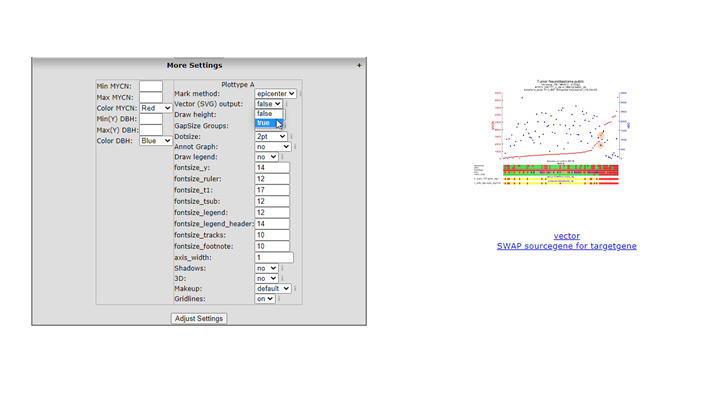
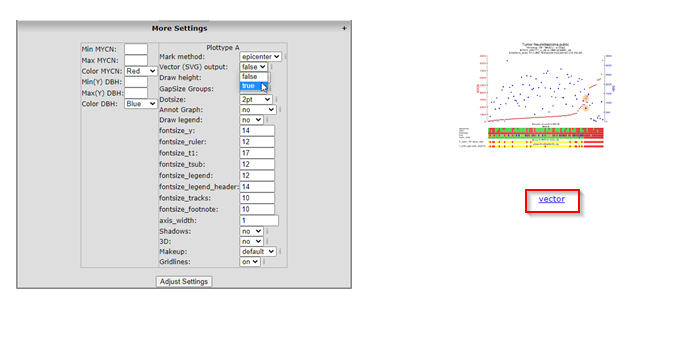
One Gene View, images adapted

Changed region(s): [[0.0, 0.0581, 0.5212, 0.843], [0.6438, 0.1163, 0.9197, 0.4651], [0.6745, 0.5523, 0.8891, 0.6395]]

diff --git a/docs/One_Gene_View.md b/docs/One_Gene_View.md
@@ -126,6 +126,8 @@ Step 3: Plotting Gene expression
    * Many layout settings can be adjusted in the *More Settings* option, such as font size, colors and marker type. In order to view the extra options, click on the small + sign on the right side of the 'More Settings' tab. 
    * To highlight specific samples in the graph, you can simply double-click in the graph on the marker-points of the samples that you want to highlight, or you can enter the R2 sample ID’s in the field 'Samples to mark' from the ‘Adjustable settings’ panel. If you enter multiple ID's, separate them with a comma. 
    * Several marking options can be selected with the 'Mark method' that can be found in the 'More settings' tab (e.g: ‘epicenter’ and ‘arrow’, Figure 4 red arrow). Changes in marker type and marker color can be achieved as well with a specific syntax applied in the before mentioned 'Samples to mark'text field. Keep reading to find examples of how to use the syntax yourself.  
+   
+   *Always click on 'Adjust Settings' button at the bottom of the 'Adjust settings' panel for your adjustments to take effect!* 
     
 
 ![](_static/images/Onegeneview/OneGene_adjustablesettings_v1.png "Figure 4: Adjusting the graph settings")
@@ -155,12 +157,16 @@ To bring attention to different samples, you may want to use multiple colors and
 >*Note: The dotsize does not scale with 'arrow' and 'triangle' method.*
 ---------------
 
-Another often used feature is the **Vector (SVG) output** option. The vector imagesz or often used in manuscripts. In the 'More Settings' tab you can find a dropdown next to the 'Vector (SVG) output' setting, which when set to "True", generates a link that you can save to your computer. A vector image can be manipulated in any vector graphics software, such as Illustrator, GIMP or Inkscape.   
+Another often used feature is the **Vector (SVG) output** option. The vector imagesz or often used in manuscripts. Click on the + sign on the right of the tab to unfold the 'More Settings' tab, where you can find a dropdown next to the 'Vector (SVG) output' setting. When the dropdown is set to "True", and after a click on the button 'Adjust Settings', a link appears above the 'Adjustable Settings' panel, that you can right-click to save the vector image to your computer. SVG vector images can be manipulated in any vector graphics software, such as Illustrator, GIMP or Inkscape.   
+
+![](_static/images/Onegeneview/OneGene_adjustablesettings_svg.png "Figure 5B: Obtain a vector (SVG) image of your graph")
+
+[**Figure 5B: Obtain a vector (SVG) image of your graph**](_static/images/Onegeneview/OneGene_adjustablesettings_svg.png)
 
 ----------
-  ![](_static/images/R2d2_logo.png)**Did you know that the Adjustable settings panel is available under most graphs and analysis results in R2?**
+  ![](_static/images/R2d2_logo.png)**Did you know that the 'Adjustable settings' panel is available under most graphs and analysis results in R2?**
 
-> *Just scroll down the page to find the Adjustable settings box with options to adjust the settings of the analysis or to adjust the looks of the graph. **Don't forget to press the Adjust Settings** button at the bottom of the box in order for your changes to take effect!*
+> *Just scroll down the page to find the Adjustable settings box with options to adjust the settings of the analysis or to adjust the looks of the graph. **Don't forget to press the Adjust Settings** button at the bottom of the panel in order for your changes to take effect!*
 
 ----------   
 
@@ -333,24 +339,24 @@ are selected.
 
 ![](_static/images/Onegeneview/OneGene_viewinGroups_v1.png "Figure 15: Fonts and Color changed")
 
-[**Figure 15: Selecting a track**](_static/images/Onegeneview/OneGene_ViewInGroups_v1.png)
+[**Figure 15: Selecting a track**](_static/images/Onegeneview/OneGene_viewinGroups_v1.png)
 
 
 
-2. The current representation is the most honest way of showing your data, as every single value is visible in the plot. In the adjustable settings you can fine tune your graph for example by switching on the genesort within the groups.
+2. The current representation is the most honest way of showing your data, as every single value is visible in the plot. In the adjustable settings you can fine-tune your graph for example by switching on the genesort within the groups.
 
 
    ![](_static/images/Onegeneview/OneGene_viewinGroups_v2.png "Figure 16: Viewing a gene in groups")
 
-   [**Figure 16: View a gene in groups**](_static/images/Onegeneview/OneGene_ViewInGroups_v2.png)
+   [**Figure 16: View a gene in groups**](_static/images/Onegeneview/OneGene_viewinGroups_v2.png)
 
 
 
-We can also change the graphical representation of the data by selecting another graph type. Select 'boxplot' from the 'graphtype' dropdown and change 'color by' to 'color by track'. Press the 'Adjust' button again to change the view. We now obtain a boxplot image where the respective groups have been colored according to the groups. Adaptations to other graphtypes can be made in a similar way.
+We can also change the graphical representation of the data by selecting another graph type. Select 'boxplot' from the 'graphtype' dropdown and change 'color by' to 'color by track', such that the inss track is used to color the boxes. Press the 'Adjust Settings' button again to change the view. We now obtain a boxplot image where the respective groups have been colored according to the inss groups. Adaptations to other graph types can be made in a similar way.
 
-![](_static/images/Onegeneview/OneGene_ViewInGroups2.png "Figure 16: Viewing a gene in groups by boxplot")
+![](_static/images/Onegeneview/OneGene_viewinGroups2.png "Figure 16: Viewing a gene in groups by boxplot")
 
-[**Figure 17: View a gene in groups by boxplot**](_static/images/Onegeneview/OneGene_ViewInGroups2.png)
+[**Figure 17: View a gene in groups by boxplot**](_static/images/Onegeneview/OneGene_viewinGroups2.png)
 
 3. You can also sort the groups by their average or median gene expression.
 
@@ -393,14 +399,6 @@ Go to the Adjustable Settings menu and select in the pull down the INSS stage. I
 
 You will encounter the filter option in the adjustable settings box in many modules.
 
-![](_static/images/R2d2_logo.png)**Did you know that you can change the order of the groups?**      
-
- ![](_static/images/Onegeneview/OneGene_AdaptOrder.png)                  
-
-> *In the Adapt Settings box the dropdown menu of the setting 'Order Groups By' allows
-> you to change the order in which the groups are presented in the graph. 
-> The default ordering is the alphabetical ordering of the track name, but 
-> you can choose ordering by the median or the average values of the groups as well.*  
 
 Step 9: Find best track separation with CliniSnitch
 ---------------
